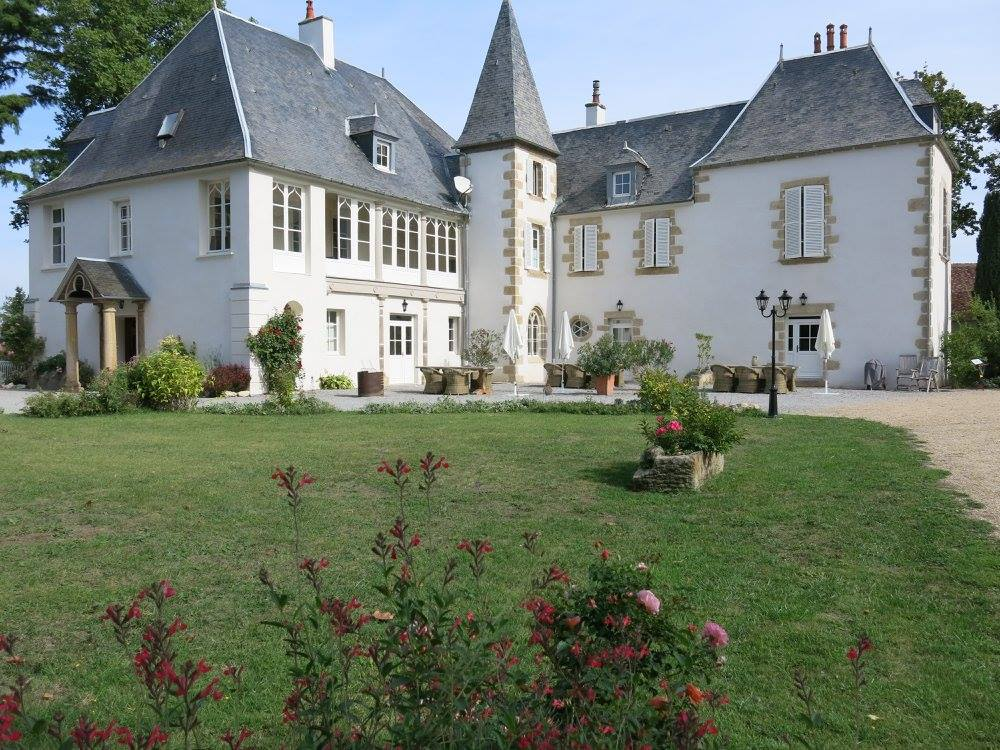
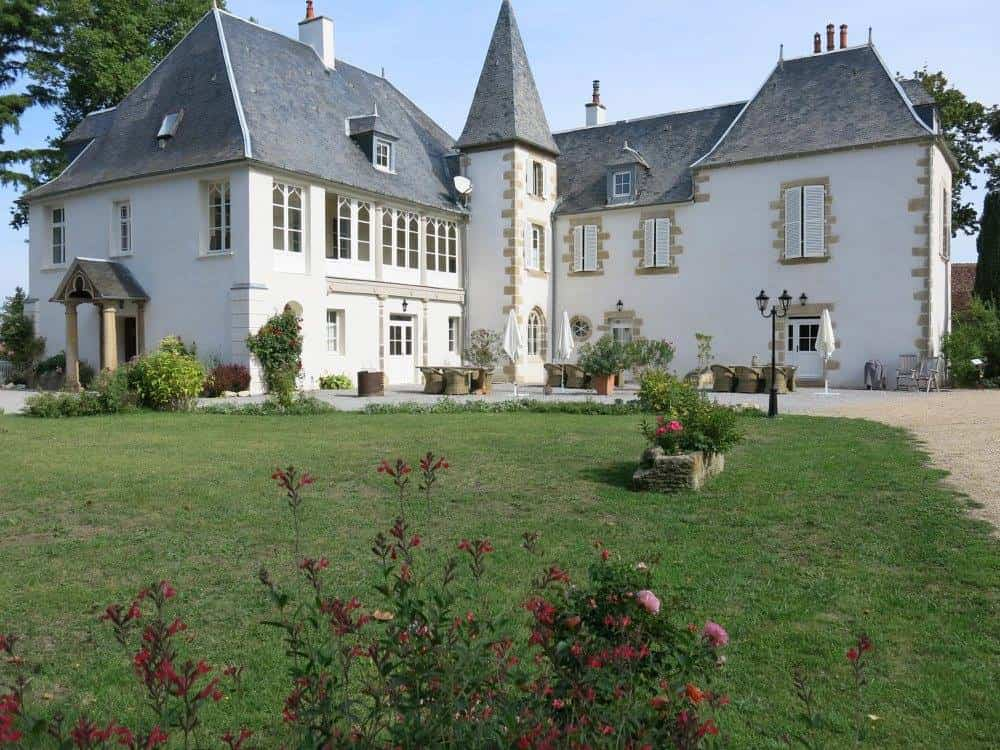
Add files via upload

diff --git a/script.js b/script.js
@@ -36,6 +36,8 @@ document.addEventListener("DOMContentLoaded", () => {
     // Création de l'élément audio en JS
     const bassSound = new Audio('deep-bass.mp3');
     bassSound.volume = 0.7; // Ajustez le volume ici
+    bassSound.preload = 'auto';
+    bassSound.load();
 
     const scriptURL = 'https://script.google.com/macros/s/AKfycbw9qgpUngA3N9-GvE_ARgA26tANcCKQquZGYvTepokSTZAtes3Py-s4Q44t9fMlly6v/exec';
     const form = document.getElementById('rsvp-form');
@@ -52,7 +54,7 @@ document.addEventListener("DOMContentLoaded", () => {
             if (data.result === "EXISTS") {
                 form.innerHTML = `<div class="success-message">
                     <h3>Heureux de te revoir !</h3>
-                            <p>Tes réponses sont déjà enregistrées. Si tu souhaites les modifier, contactez-nous directement.</p>
+                            <p>Tes réponses sont déjà enregistrées. Si tu souhaites les modifier, contacte-nous directement.</p>
                 </div>`;
             }
         };
@@ -99,19 +101,44 @@ document.addEventListener("DOMContentLoaded", () => {
         });
     });
 
+    
+
+        // Fonction pour débloquer l'audio au premier clic sur la page
+        document.addEventListener('click', function unlockAudio() {
+            boomSound.play().then(() => {
+                boomSound.pause();
+                boomSound.currentTime = 0;
+            }).catch(e => console.log("Audio en attente d'interaction"));
+            
+            // On retire l'écouteur après le premier clic pour ne pas le refaire
+            document.removeEventListener('click', unlockAudio);
+        }, { once: true });
+
+
     honeyCheck.addEventListener('change', function() {
         if (this.checked) {
             // 1. Jouer le son
             bassSound.currentTime = 0; // Recommence le son si on clique vite
             bassSound.play().catch(e => console.log("L'audio nécessite une interaction préalable."));
 
-            // 2. Ajouter l'effet sismique
-            boomBox.classList.add('quake-effect');
-
-            // 3. Retirer l'effet après l'animation (500ms)
             setTimeout(() => {
-                boomBox.classList.remove('quake-effect');
-            }, 1600);
+                // 2. Déclencher la vibration
+                if ("vibrate" in navigator) {
+                    // On fait une double vibration : une courte, un blanc, une longue
+                    // [vibration, pause, vibration] en millisecondes
+                    navigator.vibrate([50, 30, 200, 30, 200, 30, 200, 30, 200]);
+                }else{
+                    console.log('Pas de vibs ici bro.')
+                }
+
+                // 2. Ajouter l'effet sismique
+                boomBox.classList.add('quake-effect');
+
+                // 3. Retirer l'effet après l'animation (500ms)
+                setTimeout(() => {
+                    boomBox.classList.remove('quake-effect');
+                }, 1600);
+            }, 150); // Ce délai de 150ms crée la sensation de "puissance" du son
         }
     });
 
@@ -146,4 +173,20 @@ document.addEventListener("DOMContentLoaded", () => {
 
     // Appelez la fonction au chargement
     startCountdown();
+
+    const lazyBackgrounds = document.querySelectorAll(".parallax-fun");
+
+    if ("IntersectionObserver" in window) {
+        let bgObserver = new IntersectionObserver((entries) => {
+            entries.forEach((entry) => {
+                if (entry.isIntersecting) {
+                    // Quand la section est visible, on ajoute la classe qui charge l'image
+                    entry.target.classList.add("bg-loaded");
+                    bgObserver.unobserve(entry.target);
+                }
+            });
+        });
+
+        lazyBackgrounds.forEach((bg) => bgObserver.observe(bg));
+    }
 });

diff --git a/style.css b/style.css
@@ -36,7 +36,7 @@ body, html {
     /* ou on limite la taille de diffusion */
     background-size: cover; 
     
-    background-image: linear-gradient(rgba(0,0,0,0.2), rgba(0,0,0,0.2)), url('mariage-bague.jpg');
+    background-image: linear-gradient(rgba(0,0,0,0.2), rgba(0,0,0,0.2)), url('mariage-bague.webp');
     
     display: flex;
     align-items: center;
@@ -328,7 +328,7 @@ iframe:hover {
 /* --- STYLE HONEYBOOM PSYCHEDELIQUE --- */
 .honeyboom-box.boom-anniversary-style {
     position: relative;
-    background-image: url('boom-bg-small.jpg');
+    background-image: url('boom-bg-small.webp');
     background-size: cover;
     background-position: center 20%; /* Ajusté pour mieux voir la Lady */
     border-radius: 12px;
@@ -483,8 +483,8 @@ iframe:hover {
 }
 
 /* Définition des images spécifiques pour chaque section fun */
-#fun-photo-1 {
-    background-image: linear-gradient(rgba(0,0,0,0.3), rgba(0,0,0,0.3)), url('photo-fun-2.jpg'); /* Votre première photo fun */
+.bg-loaded#fun-photo-1 {
+    background-image: linear-gradient(rgba(0,0,0,0.3), rgba(0,0,0,0.3)), url('photo-fun-2.webp'); /* Votre première photo fun */
     height: 100vh; 
 }
 
@@ -554,7 +554,7 @@ iframe:hover {
 /* On ajoute une bordure droite à chaque item sauf le dernier (Minutes) */
 .countdown-item:not(:last-child) {
     position: relative;
-    padding-right: 20px; /* Espace avant la ligne */
+    
 }
 
 /* La ligne séparatrice */
